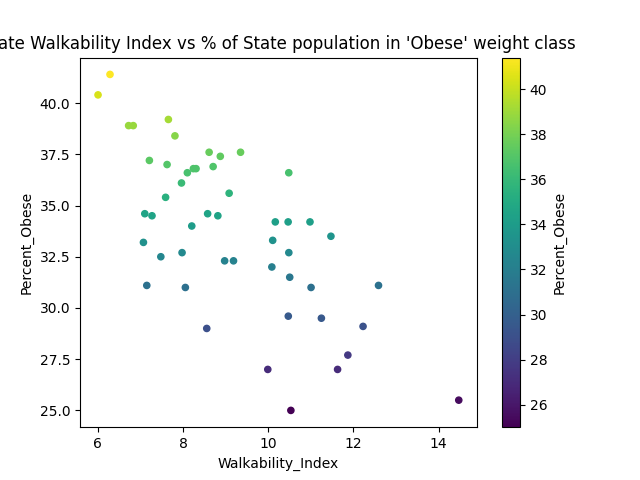
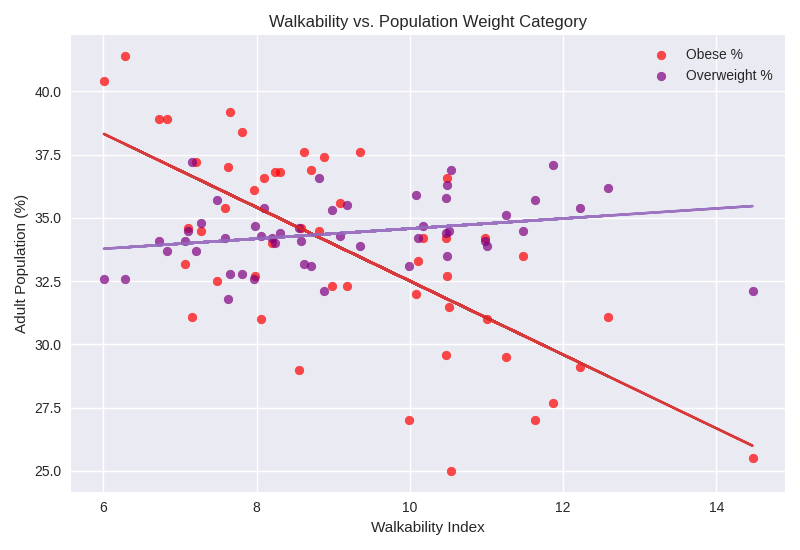
feat: add overweight to visualisatio n2

diff --git a/src/visualisation.py b/src/visualisation.py
@@ -1,12 +1,17 @@
 import matplotlib
 import matplotlib.pyplot as plt
 import pandas as pd
+import numpy as np
 
 from enums import Region, QuestionID, StratID
 from utils import ensure_dir
 from lib.db import load_df_from_db
 
+# https://matplotlib.org/stable/gallery/color/named_colors.html
+
 matplotlib.use('tkagg')
+# https://matplotlib.org/stable/gallery/style_sheets/style_sheets_reference.html
+plt.style.use("seaborn-v0_8")
 
 df = load_df_from_db("merged_dataset")
 
@@ -53,7 +58,9 @@ def visualisation1():
 
     plt.title("% of adults over 18 that have obesity")
     plt.xlabel("Year")
-    plt.ylabel("% of population ")
+    plt.ylabel("Adult Population (%)")
+
+    plt.tight_layout()
 
     # Save to file
     plt.savefig('./figures/figure1.png')
@@ -61,24 +68,77 @@ def visualisation1():
     plt.show()
 
 def visualisation2():
-    res = filter_stats_year(2024, StratID.OVERALL, QuestionID.OBESITY_18_PLUS)
+    df_obese = filter_stats_year(2024, StratID.OVERALL, QuestionID.OBESITY_18_PLUS)
+    df_overweight = filter_stats_year(2024, StratID.OVERALL, QuestionID.OVERWEIGHT_18_PLUS)
 
-    res.rename(columns={ 'Data_Value': 'Percent_Obese' }, inplace=True)
-    
-    res.plot.scatter(
-        x="Walkability_Index", 
-        y="Percent_Obese",
-        c="Percent_Obese",
+    # https://www.statology.org/pandas-scatter-plot-multiple-columns/
+    ax = df_obese.plot(kind="scatter", 
+        x="Walkability_Index",
+        y="Data_Value", 
+        color="red", 
+        label="Obese %",
+        s=40,
+        alpha=0.7
     )
 
-    plt.title("State Walkability Index vs % of State population in 'Obese' weight class")
-    # plt.xlabel("Year")
-    # plt.ylabel("% of population ")
+    df_overweight.plot(kind="scatter", 
+        x="Walkability_Index", 
+        y="Data_Value", 
+        color="purple", 
+        label="Overweight %", 
+        s=40,
+        alpha=0.7,
+        ax=ax
+    )
 
-    # Save to file
+    # Correlation lines
+    # https://www.geeksforgeeks.org/data-visualization/how-to-draw-a-line-inside-a-scatter-plot/
+
+    # Obese
+    df_obese.dropna(inplace=True) # Otherwise we get an errror
+
+    x = df_obese['Walkability_Index']
+    y = df_obese['Data_Value']
+
+    slope, intercept = np.polyfit(x, y, 1)
+    line = slope * x + intercept
+
+    ax.plot(
+        x, 
+        line, 
+        linestyle='-',
+        color="tab:red",
+        alpha=0.9
+    )
+
+    
+    # Overweight
+    df_overweight.dropna(inplace=True) # Otherwise we get an errror
+
+    x = df_overweight['Walkability_Index']
+    y = df_overweight['Data_Value']
+
+    slope, intercept = np.polyfit(x, y, 1)
+    line = slope * x + intercept
+
+    ax.plot(
+        x, 
+        line, 
+        linestyle='-',
+        color="tab:purple",
+        alpha=0.9
+    )
+
+    ax.set_xlabel("Walkability Index")
+    ax.set_ylabel("Adult Population (%)")
+    ax.set_title("Walkability vs. Adult Population Weight Category")
+
+    plt.tight_layout()
+
     plt.savefig('./figures/figure2.png')
 
     plt.show()
+
 
 def visualise_data():
     ensure_dir('./figures/')

diff --git a/src/processing.py b/src/processing.py
@@ -135,7 +135,7 @@ def process_df2():
     df2 = df2.filter(['STATEFP', 'NatWalkInd'])
     print("1. Removed unneeded cols from DataFrame")
 
-    df2 = df2.groupby("STATEFP", as_index=False)["NatWalkInd"].mean().to_frame()
+    df2 = df2.groupby("STATEFP", as_index=False)["NatWalkInd"].mean()
     print("2. Averaged state walkability by mean")
 
     # https://en.wikipedia.org/wiki/Federal_Information_Processing_Standard_state_code
@@ -200,7 +200,7 @@ def process_df2():
 
     print("3. Attached state alphanumeric as LocationAbbr")
     
-    df2.rename(columns={ 'NatWalkInd': 'Walkability_Index' }, inplace=True)
+    df2.rename(columns={ 'NatWalkInd': 'Walkability_Index' }, inplace=True) # type: ignore
     print ("4. Renamed NatWalkInd into Walkability_Index")
 
     df2.drop(axis='columns', labels=['STATEFP'], inplace=True)
